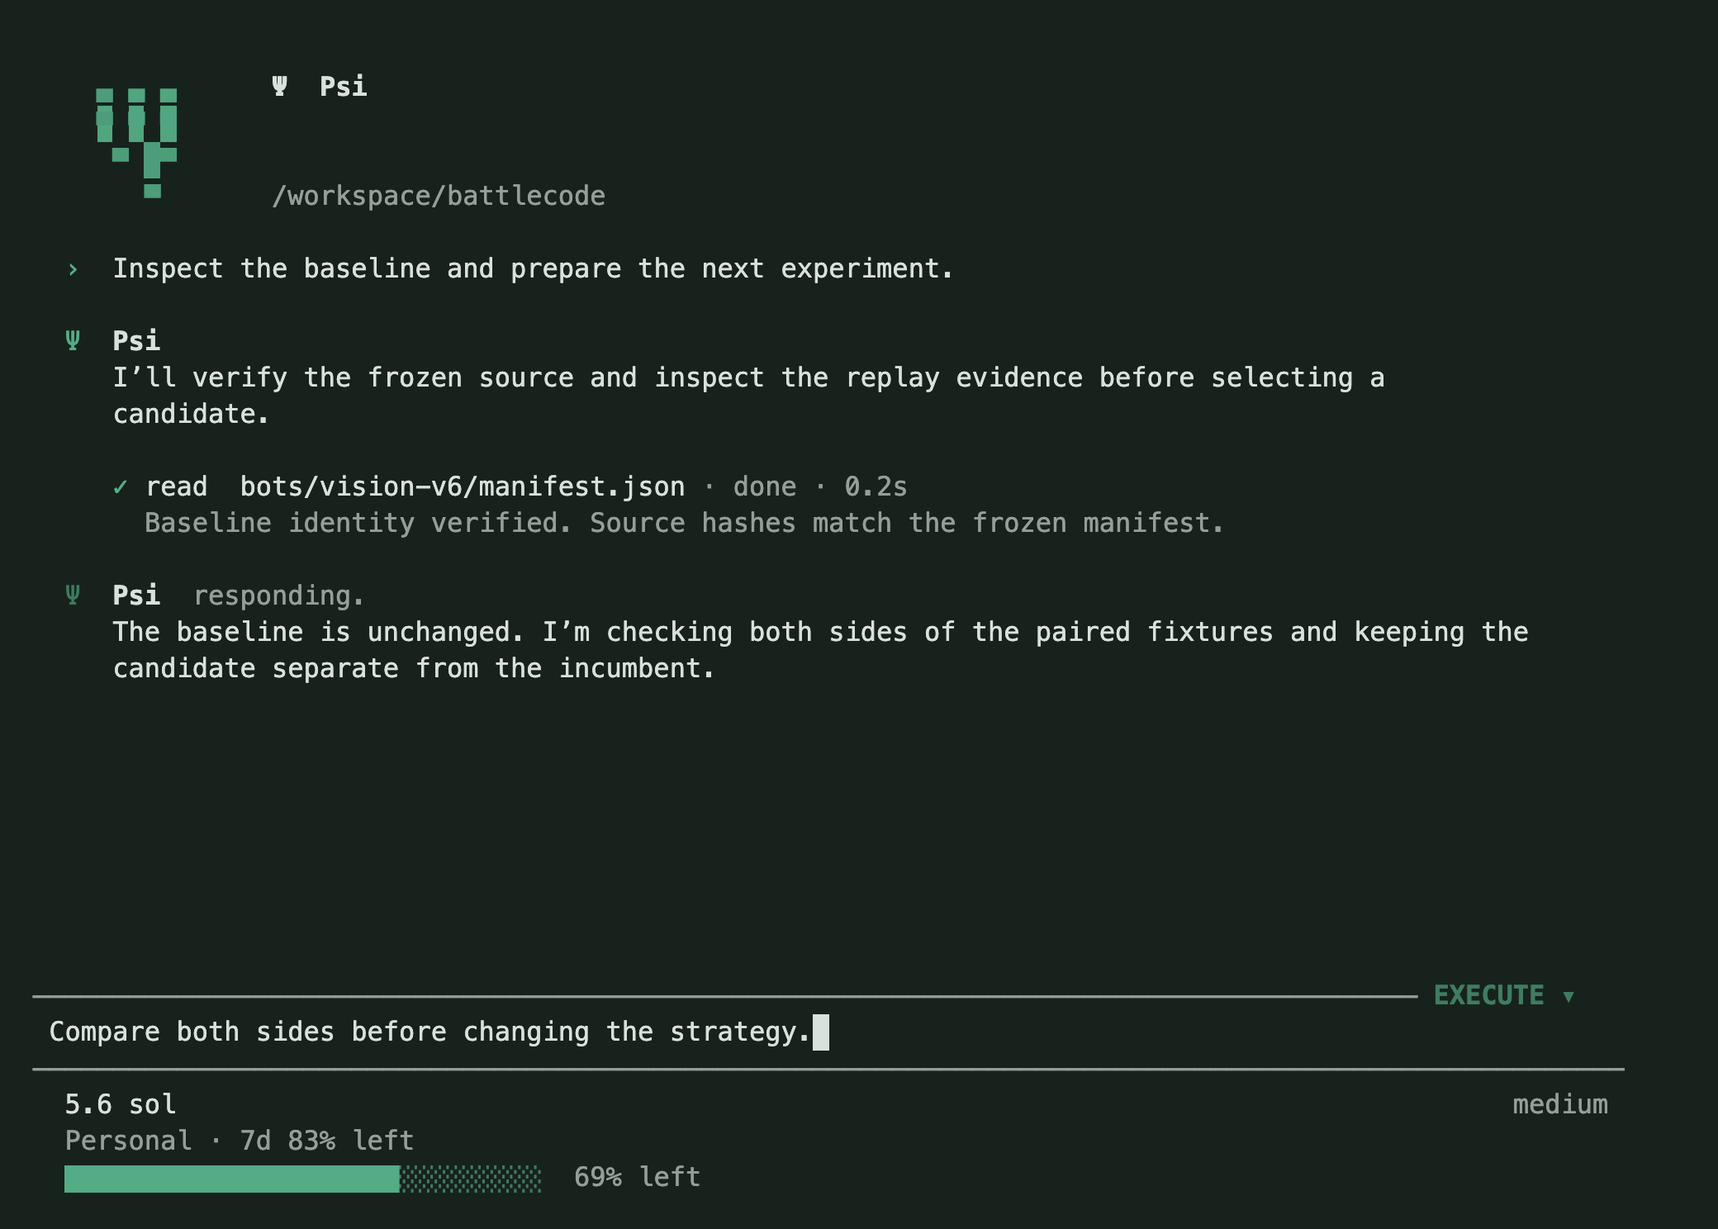
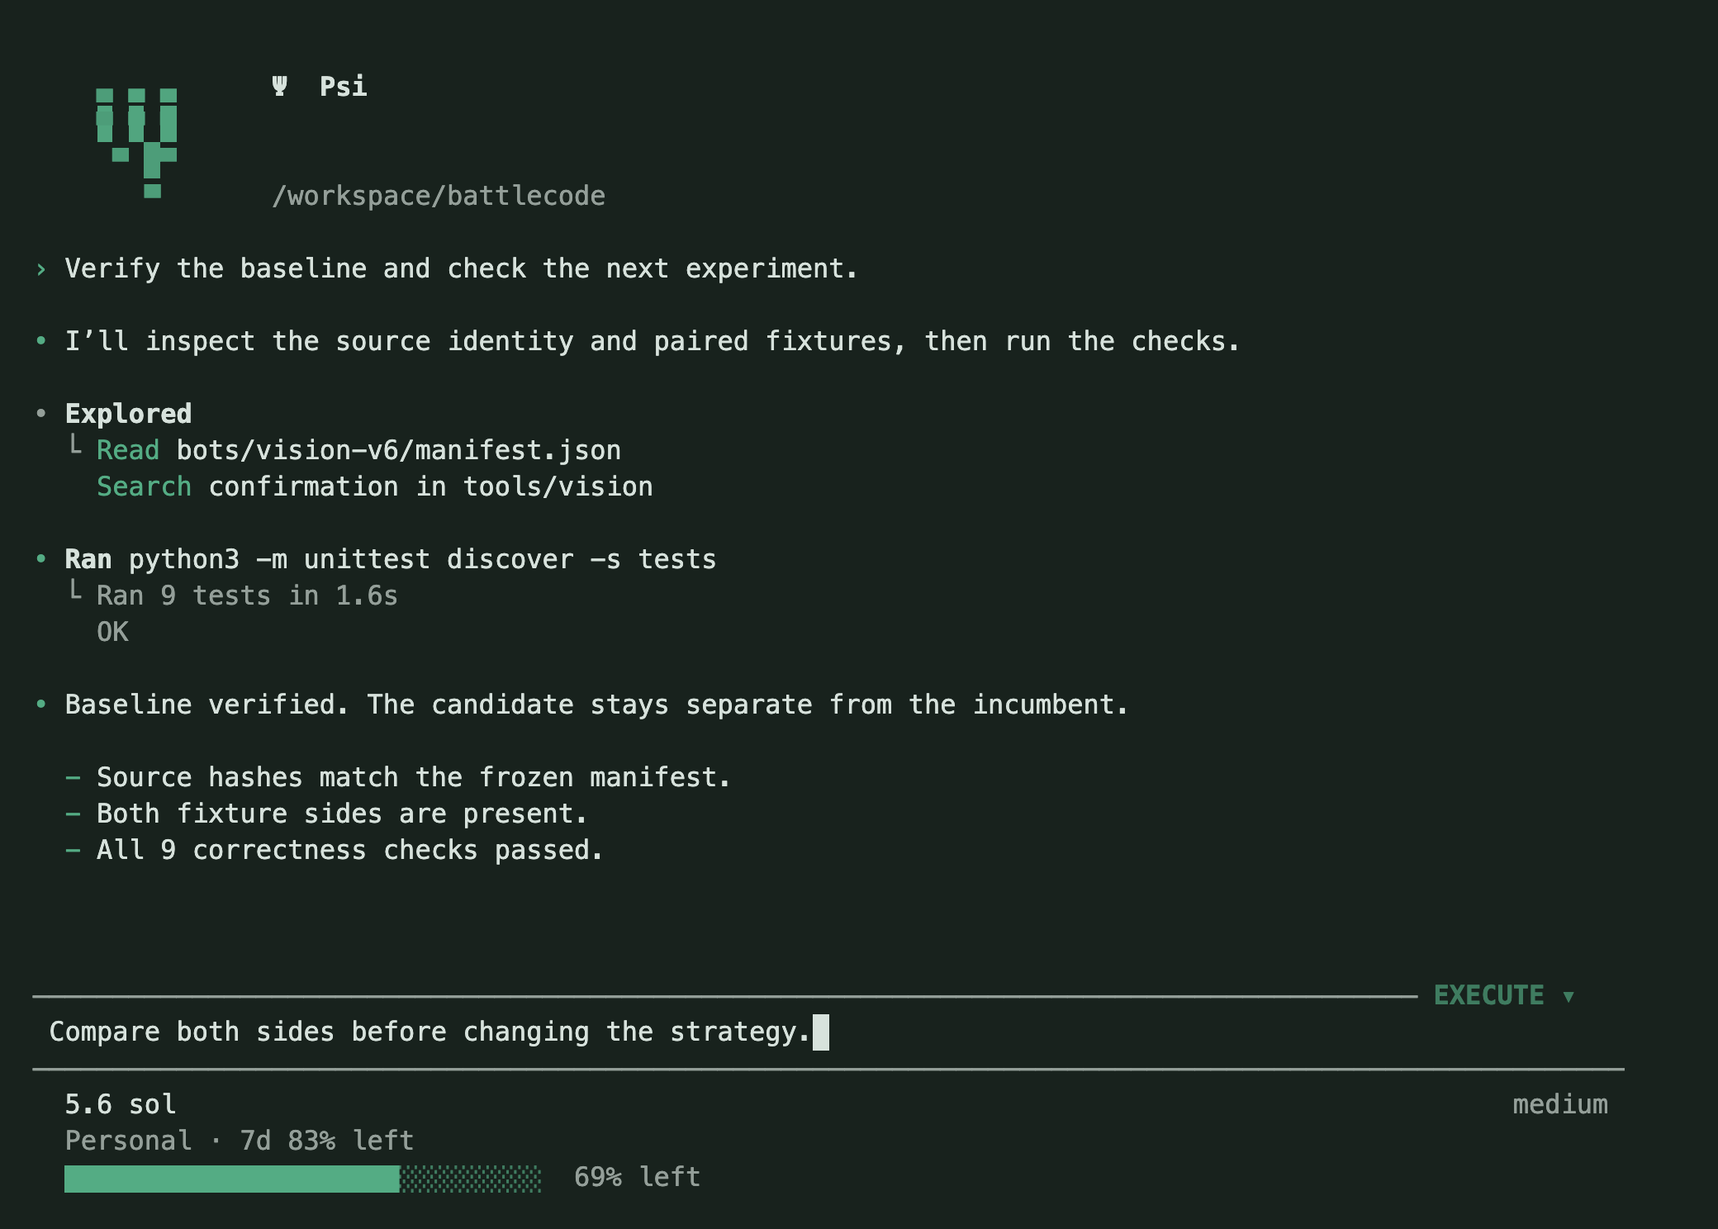
Clean up conversation rendering and add persistent session names

Changed region(s): [[0.0312, 0.2164, 0.9062, 0.5874], [0.0625, 0.6183, 0.4062, 0.711]]

diff --git a/DESIGN.md b/DESIGN.md
@@ -14,11 +14,11 @@ Use the terminal's configured monospace font. Bold distinguishes product and pic
 
 ## Layout
 
-A fullscreen terminal viewport contains the workspace header, a scrolling conversation and inline selection panel. The multiline prompt is pinned to the bottom on startup, during output and through resizes. Task-named subagent status rows sit directly below the editor. Show up to three rows, with overflow counted, active tool/status, short model name and elapsed time. The next row shows the model on the left and the bare effort value aligned to the right, with no provider label. A second row shows the active account name. Subscription accounts display only reported usage windows (5h/7d when supplied), omitting absent/unlimited windows. Metered API accounts display the current session cost, or cost unavailable when pricing is unknown. Place the clickable PLAN/EXECUTE control at the right edge of the top input border. Keep draft and slash completion at their native full width without a left gutter. Mode changes produce no conversation messages. The solid accent bottom meter prefers an actual reported five-hour quota, then a weekly or other valid quota. It fills according to percent left: 100% is unused and 0% is exhausted. Only the weekly quota stays beside the account name, avoiding duplication of the five-hour meter; the bar itself shows only the percent left. When no quota exists, clearly label the fallback as estimated goal work remaining. Conversation scrolling and selection use the terminal renderer; the visible document returns to shell scrollback on exit. Pickers filter immediately and expose keyboard hints. Narrow widths truncate metadata before primary actions. Tool results show short previews, with full results in session artifacts.
+A fullscreen terminal viewport contains the workspace header, a scrolling conversation and inline selection panel. The multiline prompt is pinned to the bottom on startup, during output and through resizes. Task-named subagent status rows sit below the usage bar. Show up to three rows, with overflow counted, active tool/status, short model name and elapsed time. The first row beneath the editor shows the model on the left and the bare effort value aligned to the right, with no provider label. A second row shows the active account name. Subscription accounts display only reported usage windows (5h/7d when supplied), omitting absent/unlimited windows. Metered API accounts display the current session cost, or cost unavailable when pricing is unknown. Place the clickable PLAN/EXECUTE control at the right edge of the top input border. Keep draft and slash completion at their native full width without a left gutter. Mode changes produce no conversation messages. The solid accent bottom meter prefers an actual reported five-hour quota, then a weekly or other valid quota. It fills according to percent left: 100% is unused and 0% is exhausted. Only the weekly quota stays beside the account name, avoiding duplication of the five-hour meter; the bar itself shows only the percent left. When no quota exists, clearly label the fallback as estimated goal work remaining. Conversation scrolling and selection use the terminal renderer; the visible document returns to shell scrollback on exit. Pickers filter immediately and expose keyboard hints. Narrow widths truncate metadata before primary actions. Tool results show short previews, with full results in session artifacts.
 
 ## Interaction
 
-Shift+Tab toggles PLAN/EXECUTE. /model keeps focus in the real composer for live filtering. Picker rows show only shortened names; route IDs remain internal. Collapse duplicate display names in current-provider/connected-provider order, with hidden route fields still searchable. Escape restores the prior draft, callbacks and completions. The dedicated /effort slider uses arrows to adjust, Tab to stage OVERKILL, Enter to apply and Escape to discard. /stats uses a compact bottom panel with calendar heatmaps for week, month and all-time activity; arrows/Tab change period, r refreshes and Escape closes without losing the draft. Slash commands and Tab completion; Enter submits; Shift+Enter adds a line; Escape closes a picker; two Escapes within 600 ms stop a run; Ctrl+C cancels a prompt or active run and exits when idle. Pickers support arrow keys and text search. Account switch/remove rows show only the short provider name and account name, such as codex · Personal, without status marks, authentication details, IDs or request counts. Settings use a searchable list with values and short explanations, then a focused picker or input for the chosen setting. Keep the workspace header pinned above every picker and statistics/tool panel. At very short terminal heights it compacts to the original Psi identity and path. Effort shows only supported level labels, the slider, a clickable OVERKILL toggle at the right of the level line and symbolic key hints. Generic menus use a short title, filter, compact list and key hints, without explanatory paragraphs. /tools is a paged name grid. /reset uses a compact bottom panel with provider-reported reset dates/countdowns and explicit account selection. A second Enter confirms a banked reset; ambiguous outcomes retain a durable retry key. Claude resets open the provider Usage page. Budget, request limits, output tokens and Compaction model stay in Settings. Appearance updates immediately; execution settings queue until the next safe boundary. Messages have a small Ψ/Psi header, aligned response text and one row per tool that updates in place. A user send receives a 240 ms eased accent transition; an active response or tool uses a restrained accent pulse and stable-width status text. Streamed text is shown immediately, without a typewriter delay. The global motion timer runs at most 12.5 frames per second while work or send feedback is active, and stops when idle, disabled or closed, except while the user has explicitly enabled OVERKILL. OVERKILL increases border weight, adds a filled ON badge and moves a brighter accent across the borders, usage meter and original terminal mark. Input and usage waves use an 850 ms phase scale with a restrained 0.75–1.20 brightness range; the logo keeps its existing motion. Reduced motion makes these accents static. UI animations can be disabled in settings. The logo also has an explicitly requested, click-triggered 3D view. It opens a rotating, shaded Ψ mesh occupying at most half the terminal height and 52 columns, at 24 fps and exits on click or Escape without changing the prompt. `/logo` supplies a keyboard alternative. Stop its timer completely on close and exit. No animation plays on startup. Streamed output is coalesced into approximately 35ms render windows. UI retains at most 100 transcript components while session evidence remains on disk.
+Shift+Tab toggles PLAN/EXECUTE. /model keeps focus in the real composer for live filtering. Picker rows show only shortened names; route IDs remain internal. Collapse duplicate display names in current-provider/connected-provider order, with hidden route fields still searchable. Escape restores the prior draft, callbacks and completions. The dedicated /effort slider uses arrows to adjust, Tab to stage OVERKILL, Enter to apply and Escape to discard. /stats uses a compact bottom panel with calendar heatmaps for week, month and all-time activity; arrows/Tab change period, r refreshes and Escape closes without losing the draft. Slash commands and Tab completion; Enter submits; Shift+Enter adds a line; Escape closes a picker; two Escapes within 600 ms stop a run; Ctrl+C cancels a prompt or active run and exits when idle. Pickers support arrow keys and text search. Account switch/remove rows show only the short provider name and account name, such as codex · Personal, without status marks, authentication details, IDs or request counts. Settings use a searchable list with values and short explanations, then a focused picker or input for the chosen setting. Keep the workspace header pinned above every picker and statistics/tool panel. At very short terminal heights it compacts to the original Psi identity and path. Effort shows only supported level labels, the slider, a clickable OVERKILL toggle at the right of the level line and symbolic key hints. Generic menus use a short title, filter, compact list and key hints, without explanatory paragraphs. /tools is a paged name grid. /reset uses a compact bottom panel with provider-reported reset dates/countdowns and explicit account selection. A second Enter confirms a banked reset; ambiguous outcomes retain a durable retry key. Claude resets open the provider Usage page. Budget, request limits, output tokens and Compaction model stay in Settings. Appearance updates immediately; execution settings queue until the next safe boundary. Responses use an inline bullet and two-column hanging indent, with Markdown source reflowing at the terminal width. User prompts use a chevron with the same hanging indent. Keep a single blank row between blocks; omit repeated assistant-name headings and response-phase captions. Consecutive read/search/fetch calls group under Exploring/Explored with a tree-indented action list. Commands use Running/Ran and a bounded indented output preview. Show failures, background job IDs and interrupted outcomes explicitly. Ctrl+T expands tool detail previews inline. A transient Thinking/Working row lives above the composer, never in saved conversation text. /name persists a session title without clearing the conversation. A user send receives a 240 ms eased accent transition; an active response or tool uses a restrained accent pulse and stable-width status text. Streamed text is shown immediately, without a typewriter delay. The global motion timer runs at most 12.5 frames per second while work or send feedback is active, and stops when idle, disabled or closed, except while the user has explicitly enabled OVERKILL. OVERKILL increases border weight, adds a filled ON badge and moves a brighter accent across the borders, usage meter and original terminal mark. Input and usage waves use an 850 ms phase scale with a restrained 0.75–1.20 brightness range; the logo keeps its existing motion. Reduced motion makes these accents static. UI animations can be disabled in settings. The logo also has an explicitly requested, click-triggered 3D view. It opens a rotating, shaded Ψ mesh occupying at most half the terminal height and 52 columns, at 24 fps and exits on click or Escape without changing the prompt. `/logo` supplies a keyboard alternative. Stop its timer completely on close and exit. No animation plays on startup. Streamed output is coalesced into approximately 35ms render windows. UI retains at most 100 transcript components while session evidence remains on disk.
 
 ## Assets
 

diff --git a/docs/GUIDE.md b/docs/GUIDE.md
@@ -63,7 +63,7 @@ Use `/model` to type a search in the main input bar. The list and footer show mo
 
 Open `/effort` for a compact slider: **←/→** adjust effort, **Tab** stages the right-aligned **OVERKILL** toggle, **Enter** applies and **Escape** cancels. OVERKILL adds a flowing glow in your selected accent around the input bar. Disable Motion for a static accent. Use `/subagents` or the worker entry in `/settings` to set concurrency and edit each worker's name, job, model, thinking, plan/execute mode, request limit and budget independently. With OVERKILL enabled, every new task automatically starts available role-specific advisory workers, up to the configured concurrency. Automatic workers inspect in plan mode, which prevents conflicting edits/builds; the main agent owns implementation and can use `agent` to delegate explicitly scoped execution afterward. The configured profile mode still applies to manually delegated workers.
 
-Worker rows beneath the input show task names, model, active tool/response state, elapsed time and completion/failure. At most three rows are shown; extra active workers are counted and `/subagents` exposes all runs. Completion uses filesystem events rather than inference polling. Reports are delivered at safe model boundaries and must be reviewed before the parent finishes. Interrupted parents can recover reports and deduplicated token receipts from saved journals. Double Escape stops the parent and workers.
+Worker rows below the usage bar show task names, model, active tool/response state, elapsed time and completion/failure. At most three rows are shown; extra active workers are counted and `/subagents` exposes all runs. Completion uses filesystem events rather than inference polling. Reports are delivered at safe model boundaries and must be reviewed before the parent finishes. Interrupted parents can recover reports and deduplicated token receipts from saved journals. Double Escape stops the parent and workers.
 
 Workers inherit the approved directories, use separate durable model sessions, and cannot create nested workers. A plan-mode parent always forces read-only workers. The AI can spawn, send follow-ups, inspect, await and stop them through `agent`; completed workers can resume for follow-up tasks. Returned worker usage is included exactly once in parent session accounting. Per-worker budgets are capped to a share of the parent's remaining configured budget when a worker starts.
 
@@ -131,6 +131,7 @@ Custom endpoint prices default to unknown. Use `/settings` → **API rates** to 
 | `/cost` | Usage, cache reads and estimated cost |
 | `/compact` | Summarize older context while preserving the full journal |
 | `/profile battlecode\|general` | Change system guidance |
+| `/name [title]` | Rename the current session, or prompt for a title |
 | `/new` | Start a fresh session |
 | `/resume [id]` | Search saved sessions |
 | `/refresh` | Reload settings, accounts, providers and tools |
@@ -145,7 +146,9 @@ Type to filter pickers, use arrows to navigate and Enter to select. Tab complete
 
 Stopping the AI also signals its subagents. Standalone detached jobs can continue; inspect them with `psi jobs` and terminate them with `psi jobs stop <id>`. Revoking a directory stops active session jobs before changing the allowlist. Live-controller cleanup can take several minutes.
 
-Messages use a brief eased send indicator and a compact **Ψ Psi** response header. Active model/tool work pulses subtly; text streams immediately. Tool rows update in place with their outcome, duration and a short preview, including background job IDs. Disable **Motion** in `/settings` for static activity labels. OVERKILL gives the input borders, usage meter and original terminal Ψ mark a brighter flowing accent, with a filled ON badge. Motion can be disabled for a static accent.
+Messages use a brief eased send marker, followed by clean Markdown responses with an inline bullet and aligned continuation lines. There is no repeated assistant-name heading or streaming-phase label above each response. The live Thinking/Working indicator sits above the composer and disappears after work stops.
+
+Consecutive reads/searches/fetches form a compact **Exploring / Explored** group. Commands show **Running / Ran** with indented output; edit previews show removed/added text. Failures, nonzero exit codes, background job identities and stopped outcomes remain explicit. **Ctrl+T** toggles inline tool details without another model call. Compact output is bounded; expanded output remains a preview, with full journal/artifact evidence on disk. Disable **Motion** in Settings for static indicators. OVERKILL retains its slower flowing accent.
 
 ![Psi conversation and inline mode control](conversation.png)
 
@@ -287,4 +290,8 @@ See [Reset details](RESETS.md) for banked Codex resets, provider reset schedules
 
 ![Model search in the actual composer](models.png)
 
-![Automatic worker activity beneath the input](overkill.png)
+![Automatic worker activity below the usage bar](overkill.png)
+
+## Session names
+
+`/name My experiment` renames the current session. `/name` without an argument opens a title prompt. Names persist in the journal and session metadata, appear in `/resume` and session listings, and are included in exports. Naming does not clear context, goals, account data or files and works while inference is active. Escape cancels the prompt. Names are one line, up to 120 characters.

diff --git a/docs/VERIFICATION.md b/docs/VERIFICATION.md
@@ -2,7 +2,7 @@
 
 Verified locally on 2026-10-31 (Australia/Sydney), using isolated temporary homes for tests.
 
-- `npm run verify`: syntax checks and **105 passing tests**.
+- `npm run verify`: syntax checks and **111 passing tests**.
 - Real HTTP SSE requests to a local OpenAI-compatible fixture executed file writes, a detached shell job, website extraction and objective completion. No paid inference was used.
 - A new process can reconstruct messages, usage, pending goals and tool outcomes from the session journal.
 - Tested serialized multi-account refresh, private credential file mode, transient retries, authentication failure handling, budget/request limits, compaction, torn-journal recovery, writer contention, stale-session rejection and cancellation.
@@ -115,3 +115,11 @@ Actual API invoices and real competition transactions were not exercised in this
 - Real local child processes verify automatic bounded startup, role/task names, per-profile models/effort, plan-only advisory permissions, result integration before final completion, usage deduplication, mid-request enabling, parent resume and double-Escape cancellation. Fixtures use no paid inference or live competition calls.
 - Subagent activity is written at state/tool transitions and observed through filesystem events. Job completion is event-driven; observers close on exit/session changes. Results are persisted and delivered once per recorded job identity.
 - Models, effort and worker-row screenshots come from actual terminal frames with illustrative data. Manual execution delegation remains supported; automatic kickoff workers inspect without concurrent project edits.
+
+## Conversation layout and session names (0.2.10)
+
+- Subagents are verified below the usage bar at 100×32, 68×24 and 28×18, including while a menu is open. Model/account/quota order stays stable.
+- Six new tests exercise inline response bullets and full Markdown streaming, grouped exploration, Ctrl+T disclosure without inference, bounded shell previews, failures, edit snippets, background job identity, interrupted states and persisted session naming.
+- `/name` is verified while busy, through session list/resume, with cancellation, invalid titles and an explicitly named “New session” that cannot be overwritten by later prompts. Context and unfinished objectives remain intact.
+- Presentation follows the public Codex [message](https://github.com/openai/codex/blob/main/codex-rs/tui/src/history_cell/messages.rs) and [execution-cell](https://github.com/openai/codex/blob/main/codex-rs/tui/src/exec_cell/render.rs) conventions: bullet responses, grouped exploration and indented command output. Psi retains its renderer, logo, tools and account features; this is not a copy of the Codex implementation.
+- The conversation screenshot uses actual rendered frames with illustrative checks, not a live competition result.

diff --git a/README.md b/README.md
@@ -70,9 +70,12 @@ The Ψ header stays visible above compact bottom menus. Model search lives in th
 | `/stats` · `/tools` | Activity and available tools |
 | `/reset` | Reset times and available account resets |
 | `/settings` · `/refresh` | Configure Psi or reload disk settings |
+| `/name [title]` | Rename the current session |
 | `/help` | Every command |
 
-With **OVERKILL** on, each task starts advisory subagents up to your configured concurrency. Their task names, activity, model and completion status appear beneath the input. Reports return to the main agent before it finishes; implementation can then be delegated with explicit ownership. Subagents use their configured models and selected provider accounts and consume normal provider usage.
+With **OVERKILL** on, each task starts advisory subagents up to your configured concurrency. Their task names, activity, model and completion status appear below the usage bar. Reports return to the main agent before it finishes; implementation can then be delegated with explicit ownership. Subagents use their configured models and selected provider accounts and consume normal provider usage.
+
+Answers use clean Markdown without repeated assistant headings. Reads and searches group under **Exploring / Explored**; commands use **Running / Ran** with indented output. **Ctrl+T** expands tool details.
 
 **Shift+Tab** switches plan/execute. **Escape** closes menus; **double Escape** stops the AI. Enter a message during work to queue it at the next tool boundary. Tools run without approval dialogs inside the directories you grant.
 

diff --git a/docs/PARITY.md b/docs/PARITY.md
@@ -1,6 +1,6 @@
 # Pi, Codex and Psi
 
-Compared against the current primary documentation on 2026-10-31 and Psi 0.2.9 source. These are first-class product features; calling an external CLI through Psi's shell is different from providing its own integration.
+Compared against the current primary documentation on 2026-10-31 and Psi 0.2.10 source. These are first-class product features; calling an external CLI through Psi's shell is different from providing its own integration.
 
 | Feature | Available in | Psi today |
 | --- | --- | --- |
